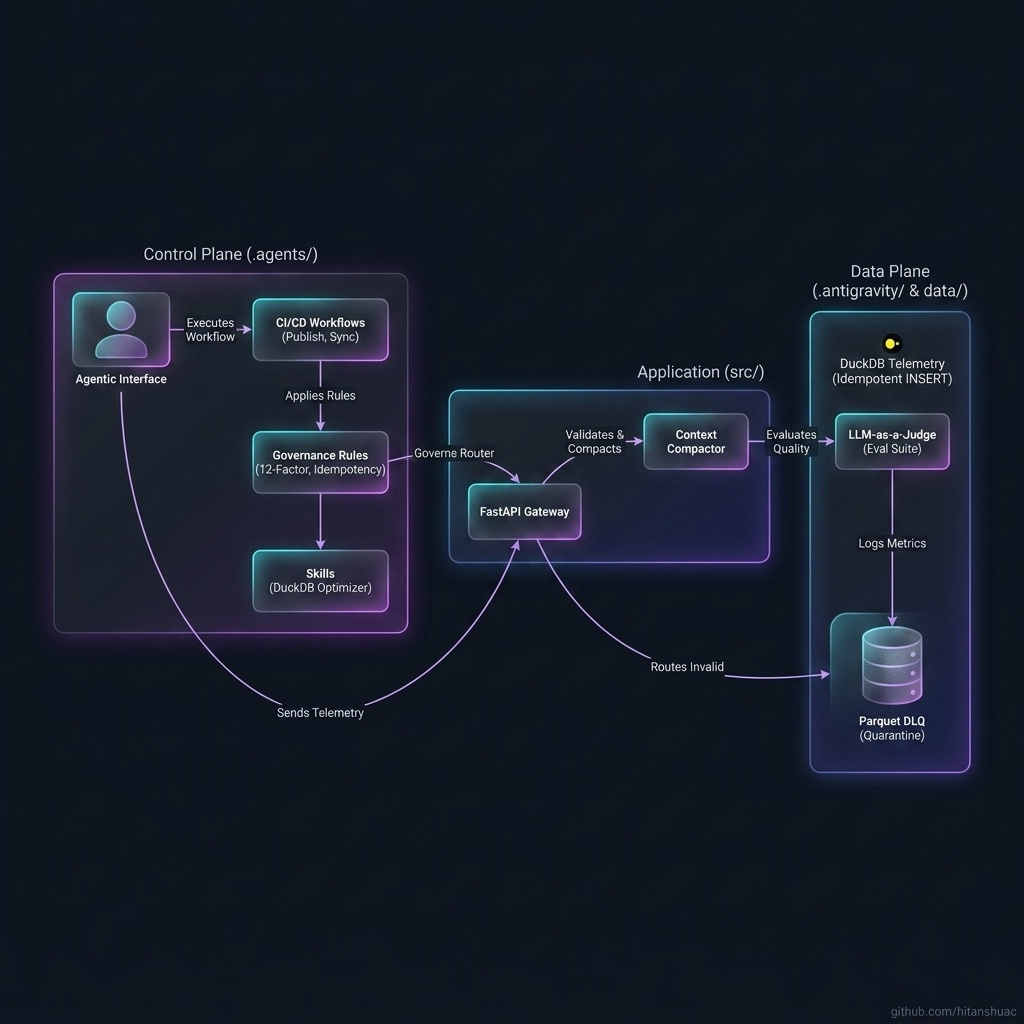
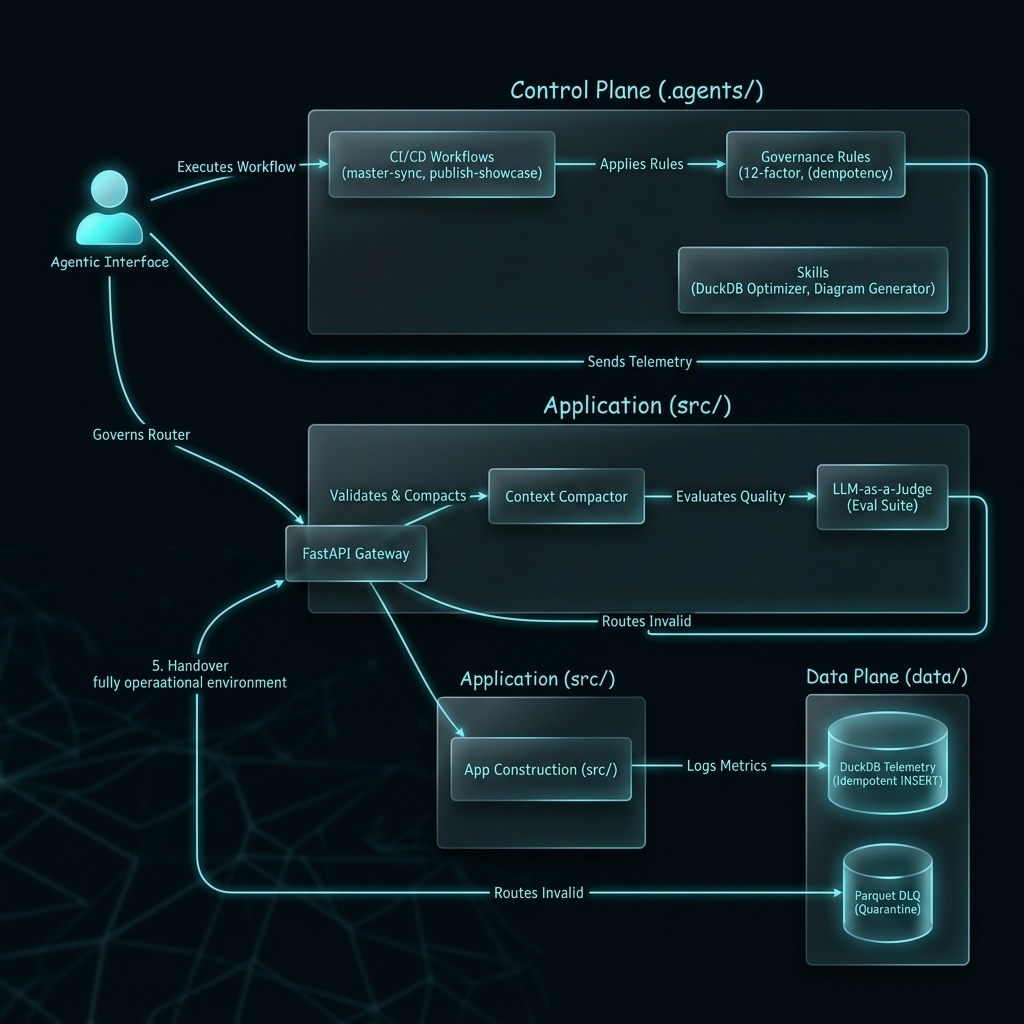
chore: force-sync docs and showcase diagrams

diff --git a/README.md b/README.md
@@ -1,4 +1,4 @@
-# 🌌 Antigravity Base Agentic Environment
+# 🌌 ArenaPulse-AI (Agentic Environment)
 
 ![Python](https://img.shields.io/badge/python-3.11+-blue.svg)
 ![FastAPI](https://img.shields.io/badge/FastAPI-005571?style=flat&logo=fastapi)
@@ -25,8 +25,8 @@ This workspace is designed to be highly composable. **As new skills and agents a
 
 ```bash
 # 1. Clone the repository
-git clone https://github.com/hitanshuac/antigravity-agentic-governance-template.git
-cd antigravity-agentic-governance-template
+git clone https://github.com/hitanshuac/ArenaPulse-AI.git
+cd ArenaPulse-AI
 
 # 2. Provision Remote Secrets (Autonomous)
 # Before writing code, instruct your AI Agent to secure the CI/CD pipeline:
@@ -124,7 +124,7 @@ To test if this environment works as intended in your own projects, you do not n
 
 ### For Brand New Projects (Fresh Start)
 If you are starting a new project (e.g., `mental-wellness-tracker`) and want to inherit these skills and rules from day one, give your IDE Copilot this exact prompt:
-> *"Please initialize this project with my standard agentic governance template. Run `git clone https://github.com/hitanshuac/antigravity-agentic-governance-template.git .agents_temp`, move the `.agents_temp/.agents/` directory into the root of this project. If this is a Python project, also copy the `.agents_temp/src/` folder to get the batteries-included starter kit. Delete the temp folder. Once that is done, execute `/.agents/workflows/bootstrap.md` to scaffold the rest of the environment."*
+> *"Please initialize this project with my standard agentic governance template. Run `git clone https://github.com/hitanshuac/ArenaPulse-AI.git .agents_temp`, move the `.agents_temp/.agents/` directory into the root of this project. If this is a Python project, also copy the `.agents_temp/src/` folder to get the batteries-included starter kit. Delete the temp folder. Once that is done, execute `/.agents/workflows/bootstrap.md` to scaffold the rest of the environment."*
 
 ### For Existing Projects (Upgrading)
 If your project already has an older `.agents/` folder, you can safely pull down the latest rules (like new LangGraph or Multi-Agent skills) without overwriting your custom modifications. Simply tell the IDE: